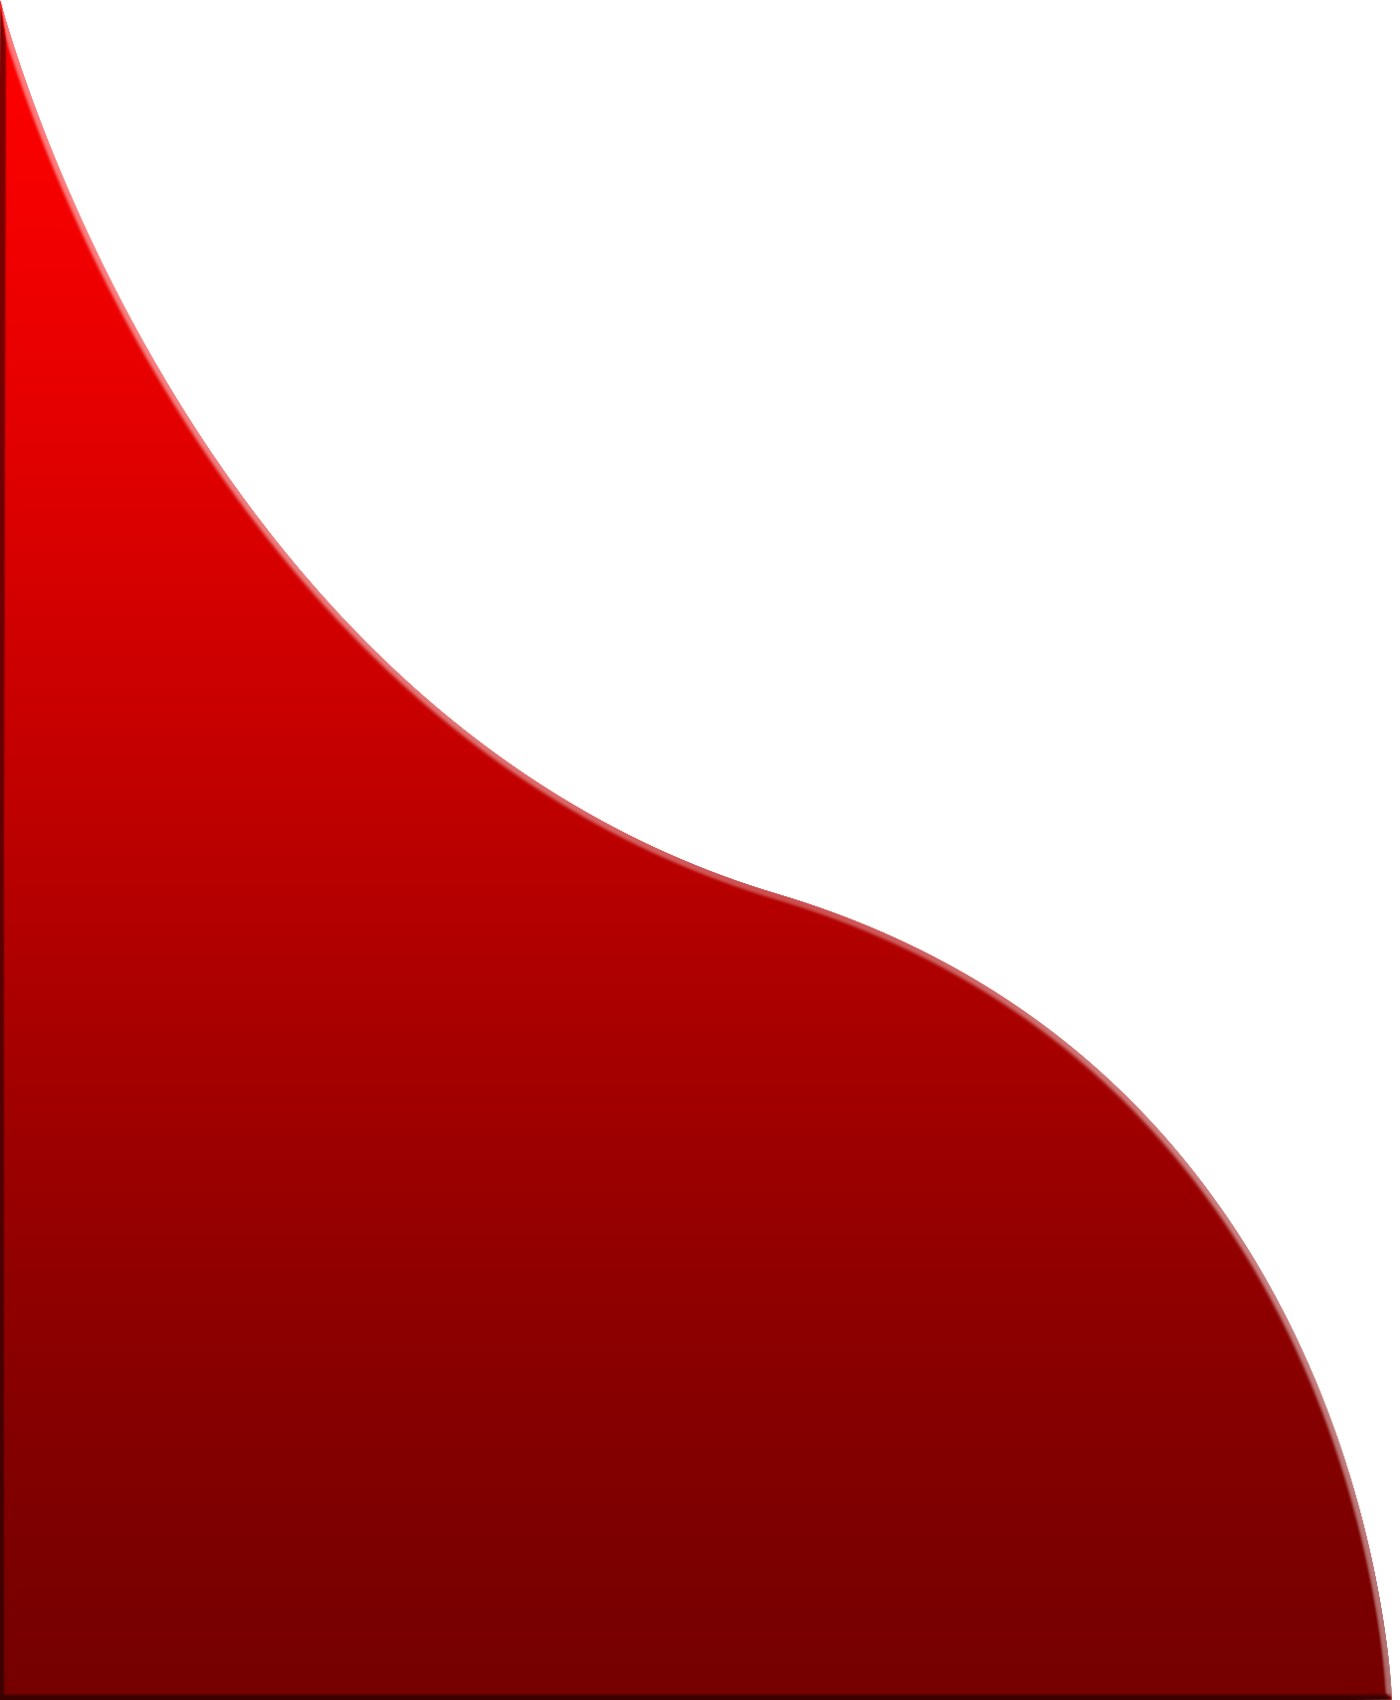
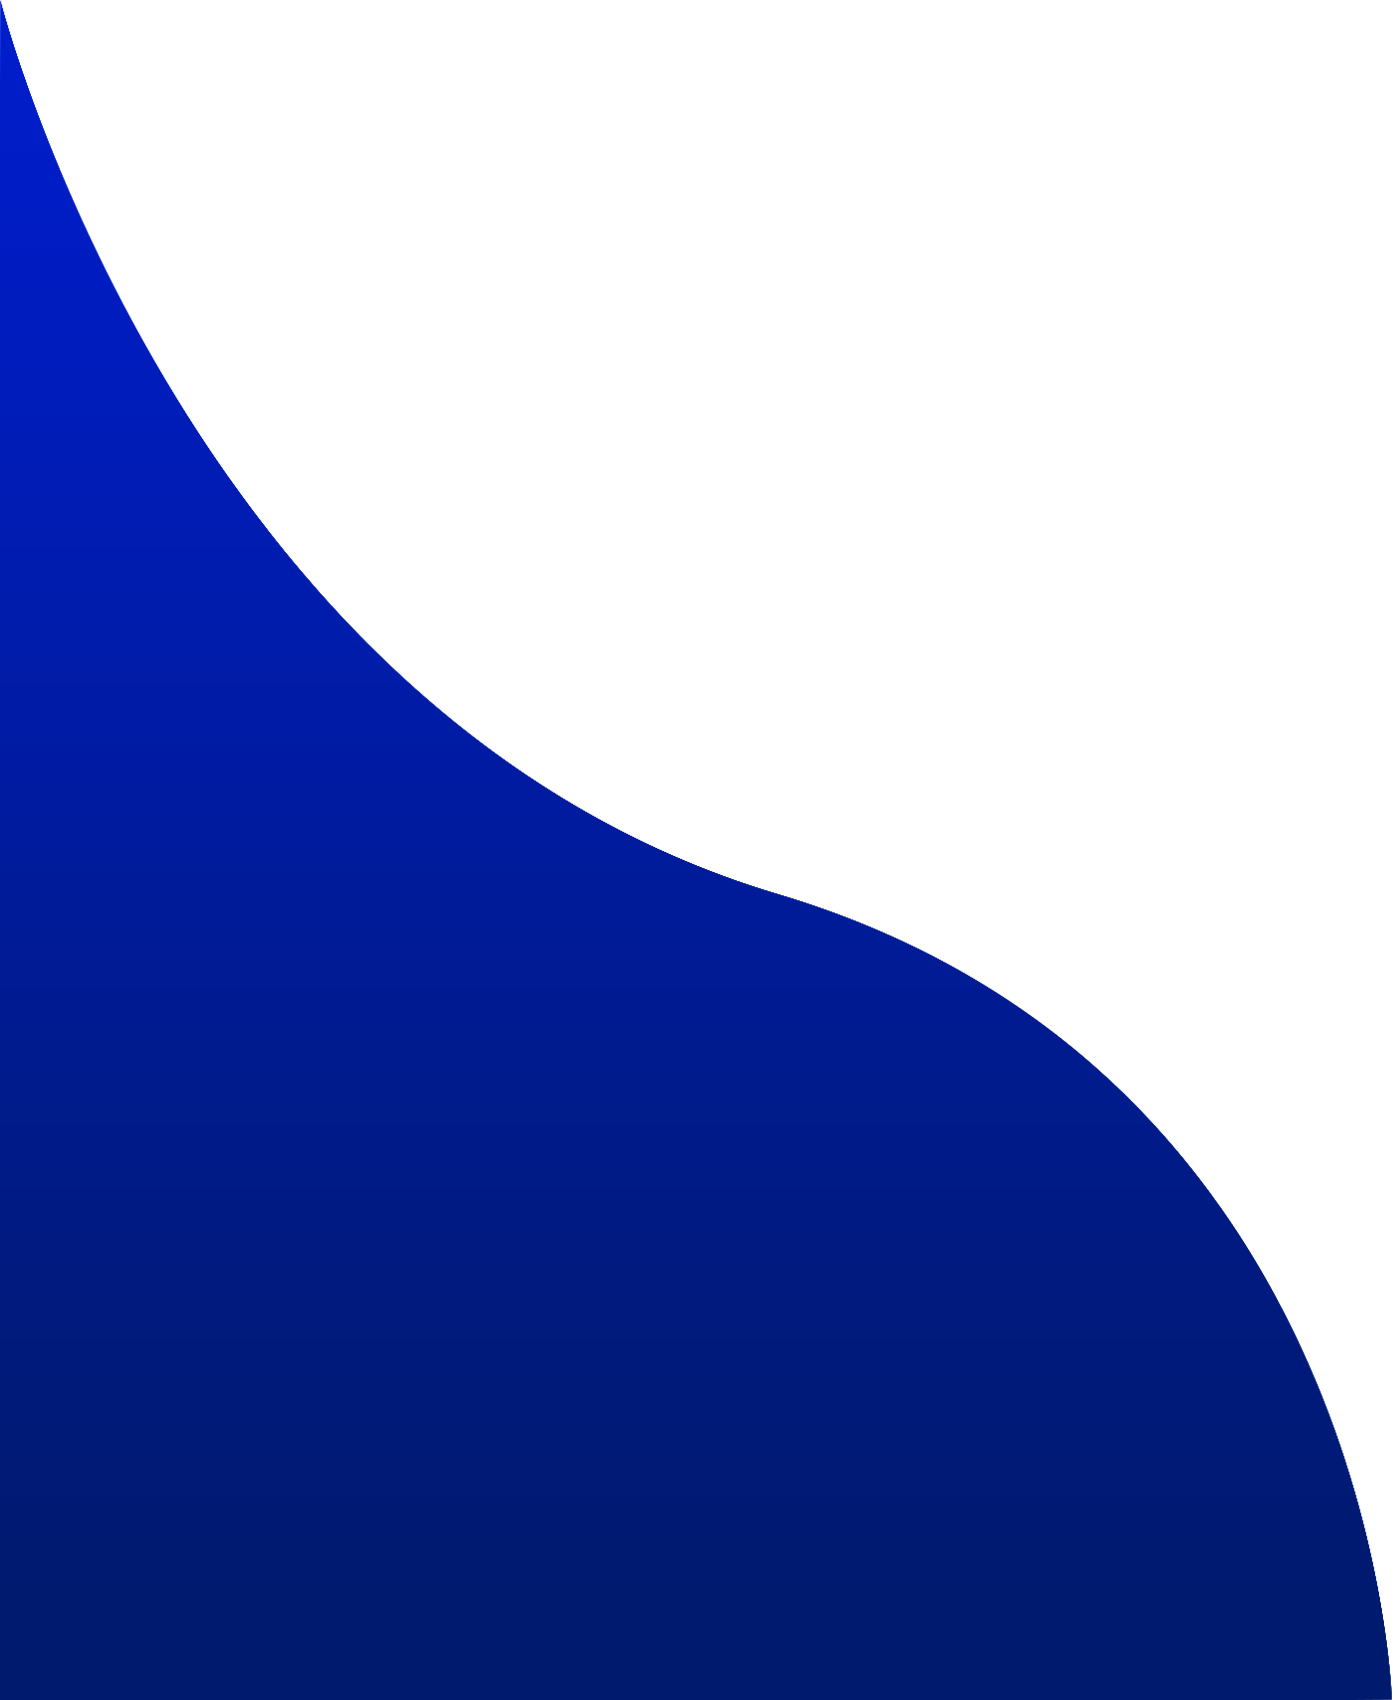
Fix Color and Import CSV,EXCEL

diff --git a/frontend/src/layouts/SidebarView.vue b/frontend/src/layouts/SidebarView.vue
@@ -1,6 +1,6 @@
 <template>
   <aside class="main-sidebar sidebar-dark-secondary elevation-4">
-    <router-link to="/dashboard" style=" text-decoration:none" class="brand-link bg-danger text-white">
+    <router-link to="/dashboard" style=" text-decoration:none" class="brand-link bg-gradient-blue text-white">
       <span class="brand-text font-weight-bold mr-5 ml-5">Admin LKPS</span></router-link>
     <div class="sidebar">
       <div class="user-panel mt-3 pb-3 mb-3 d-flex">
@@ -41,23 +41,6 @@
           </li>
           <li class="nav-item">
             <a href="#" class="nav-link">
-              <i class="nav-icon fas fa-tachometer-alt"></i>
-              <p>
-                CRUD Example
-                <i class="right fas fa-angle-left"></i>
-              </p>
-            </a>
-            <ul class="nav nav-treeview">
-              <li class="nav-item">
-                <router-link to="/home" class="nav-link">
-                  <i class="far fa-circle nav-icon"></i>
-                  <p>CRUD</p>
-                </router-link>
-              </li>
-            </ul>
-          </li>
-          <li class="nav-item">
-            <a href="#" class="nav-link">
               <i class="fas fa-users nav-icon"></i>
               <p>
                 Sumber Daya Manusia 
@@ -81,10 +64,27 @@
               </li>
             </ul>
           </li>
+          <li class="nav-item">
+            <a href="#" class="nav-link">
+              <i class="nav-icon fas fa-tachometer-alt"></i>
+              <p>
+                CRUD Example
+                <i class="right fas fa-angle-left"></i>
+              </p>
+            </a>
+            <ul class="nav nav-treeview">
+              <li class="nav-item">
+                <router-link to="/home" class="nav-link">
+                  <i class="far fa-circle nav-icon"></i>
+                  <p>CRUD</p>
+                </router-link>
+              </li>
+            </ul>
+          </li>
         </ul>
       </nav>
     </div>
-    <div class="card no-gutters no-border bg-danger">
+    <div class="card no-gutters no-border bg-blue">
       <button type="submit" @click="logout" class="btn text-white">
         <h5>Logout</h5>
       </button>

diff --git a/frontend/src/BimbinganTa/HomeBimbinganView.vue b/frontend/src/BimbinganTa/HomeBimbinganView.vue
@@ -32,7 +32,7 @@
                     <hr />
 
                     <div class="table-responsive mt-2">
-                      <table id="datatable" class="table table-hover table-bordered display">
+                      <table id="datatable" class="table table-hover table-bordered display" style="width: 100%;">
                         <thead>
                           <tr>
                             <th>TAHUN AKADEMIK</th>
@@ -91,7 +91,14 @@ import "jquery/dist/jquery.min.js";
 import "bootstrap/dist/css/bootstrap.min.css";
 import "datatables.net-dt/js/dataTables.dataTables";
 import "datatables.net-dt/css/jquery.dataTables.min.css";
+import "datatables.net-buttons/js/buttons.colVis.min";
+import "datatables.net-buttons/js/dataTables.buttons";
+import "datatables.net-buttons/js/buttons.flash.min";
+import "datatables.net-buttons/js/buttons.html5.min";
 import $ from "jquery";
+import "datatables.net";
+import jszip from "jszip";
+window.jszip = jszip;
 
 export default {
   
@@ -101,6 +108,10 @@ export default {
       console.log(response.data.data)
       setTimeout(() => {
         $("#datatable").DataTable({
+          dom:"Bftrip",
+          buttons:[
+              "excel","csv"
+          ],
           lengthMenu: [
             [5, 10, 25, 50, -1],
             [5, 10, 25, 50, "All"],

diff --git a/frontend/src/CRUD/HomeAdminView.vue b/frontend/src/CRUD/HomeAdminView.vue
@@ -80,6 +80,13 @@ import "jquery/dist/jquery.min.js";
 import "bootstrap/dist/css/bootstrap.min.css";
 import "datatables.net-dt/js/dataTables.dataTables";
 import "datatables.net-dt/css/jquery.dataTables.min.css";
+import "datatables.net-buttons/js/buttons.colVis.min";
+import "datatables.net-buttons/js/dataTables.buttons";
+import "datatables.net-buttons/js/buttons.flash.min";
+import "datatables.net-buttons/js/buttons.html5.min";
+import "datatables.net";
+import jszip from "jszip";
+window.jszip = jszip;
 import $ from "jquery";
 export default {
   mounted () {
@@ -114,6 +121,10 @@ export default {
         console.log(response.data.data)
       setTimeout(() => {
         $("#datatable").DataTable({
+          dom:"Bftrip",
+          buttons:[
+              "excel","csv"
+          ],
           lengthMenu: [
             [5, 10, 25, 50, -1],
             [5, 10, 25, 50, "All"],

diff --git a/frontend/src/Penelitian/HomePenelitianView.vue b/frontend/src/Penelitian/HomePenelitianView.vue
@@ -97,7 +97,14 @@ import "jquery/dist/jquery.min.js";
 import "bootstrap/dist/css/bootstrap.min.css";
 import "datatables.net-dt/js/dataTables.dataTables";
 import "datatables.net-dt/css/jquery.dataTables.min.css";
+import "datatables.net-buttons/js/buttons.colVis.min";
+import "datatables.net-buttons/js/dataTables.buttons";
+import "datatables.net-buttons/js/buttons.flash.min";
+import "datatables.net-buttons/js/buttons.html5.min";
 import $ from "jquery";
+import "datatables.net";
+import jszip from "jszip";
+window.jszip = jszip;
 
 export default {
   
@@ -107,6 +114,10 @@ export default {
       console.log(response.data.data)
       setTimeout(() => {
         $("#datatable").DataTable({
+          dom:"Bftrip",
+          buttons:[
+              "excel","csv"
+          ],
           lengthMenu: [
             [5, 10, 25, 50, -1],
             [5, 10, 25, 50, "All"],

diff --git a/frontend/src/CRUD/HomeView.vue b/frontend/src/CRUD/HomeView.vue
@@ -90,6 +90,13 @@ import "bootstrap/dist/css/bootstrap.min.css";
 import "datatables.net-dt/js/dataTables.dataTables";
 import "datatables.net-dt/css/jquery.dataTables.min.css";
 import $ from "jquery";
+import "datatables.net-buttons/js/buttons.colVis.min";
+import "datatables.net-buttons/js/dataTables.buttons";
+import "datatables.net-buttons/js/buttons.flash.min";
+import "datatables.net-buttons/js/buttons.html5.min";
+import "datatables.net";
+import jszip from "jszip";
+window.jszip = jszip;
 
 export default {
   
@@ -99,6 +106,10 @@ export default {
       console.log(response.data.data)
       setTimeout(() => {
         $("#datatable").DataTable({
+          dom:"Bftrip",
+          buttons:[
+              "excel","csv"
+          ],
           lengthMenu: [
             [5, 10, 25, 50, -1],
             [5, 10, 25, 50, "All"],

diff --git a/frontend/public/index.html b/frontend/public/index.html
@@ -1,6 +1,9 @@
 <!DOCTYPE html>
 <html lang="">
   <head>
+    <script type="text/javascript" src="https://cdn.datatables.net/buttons/1.3.1/js/dataTables.buttons.min.js"></script> 
+    <script type="text/javascript" src="https://cdnjs.cloudflare.com/ajax/libs/jszip/3.1.3/jszip.min.js"></script>
+    <script type="text/javascript" src="https://cdn.datatables.net/buttons/1.3.1/js/buttons.html5.min.js"></script>
     <link href="https://fonts.googleapis.com/css?family=Poppins:600&display=swap" rel="stylesheet">
 	<script src="https://kit.fontawesome.com/a81368914c.js"></script>
    <!-- Font Awesome -->

diff --git a/frontend/src/layouts/NavbarView.vue b/frontend/src/layouts/NavbarView.vue
@@ -1,5 +1,5 @@
 <template>
-    <nav class="main-header navbar navbar-expand navbar-white navbar-light bg-danger ">
+    <nav class="main-header navbar navbar-expand navbar-white navbar-light bg-gradient-blue ">
           <ul class="navbar-nav">
             <li class="nav-item">
               <a class="nav-link" data-widget="pushmenu" href="#" role="button"

diff --git a/frontend/src/main.js b/frontend/src/main.js
@@ -4,7 +4,8 @@ import router from "./router";
 import axios from "axios";
 import VueSweetalert2 from 'vue-sweetalert2';
 import 'sweetalert2/dist/sweetalert2.min.css';
-import vueTopprogress from 'vue-top-progress'
+import vueTopprogress from 'vue-top-progress';
+
 Vue.use(vueTopprogress)
 
 components:{

diff --git a/frontend/src/views/LoginView.vue b/frontend/src/views/LoginView.vue
@@ -269,7 +269,7 @@ a:hover{
 	border-radius: 25px;
 	outline: none;
 	border: none;
-	background-image: linear-gradient(to right, #b72b2b, #ff0c0c, #b00000);
+	background-image: linear-gradient(to right, #2b2db7, #0c24ff, #0017b0);
 	background-size: 200%;
 	font-size: 1.2rem;
 	color: #fff;

diff --git a/backend/app/Controllers/Penelitian.php b/backend/app/Controllers/Penelitian.php
@@ -143,7 +143,7 @@ class Penelitian extends ResourceController
                     'judul'     => $this->request->getPost('judul'),
                     'tahun'   => $this->request->getPost('tahun'),
                     'sumber_dana_pt_mandiri'   => $this->request->getPost('sumber_dana_pt_mandiri'),
-                    'dana_pt_mandiri'   => $this->request->getPost('content'),
+                    'dana_pt_mandiri'   => $this->request->getPost('dana_pt_mandiri'),
                     'sumber_dalam_negeri'   => $this->request->getPost('sumber_dalam_negeri'),
                     'dana_dalam_negeri'   => $this->request->getPost('dana_dalam_negeri'),
                     'sumber_luar_negeri'   => $this->request->getPost('sumber_luar_negeri'),

diff --git a/backend/app/Database/Migrations/2022-07-11-124453_TblPenelitian.php b/backend/app/Database/Migrations/2022-07-11-124453_TblPenelitian.php
@@ -29,8 +29,8 @@ class TblPenelitian extends Migration
 				'null'           => true,
 			],
 			'dana_pt_mandiri' => [
-				'type'           => 'VARCHAR',
-				'constraint'     => 100,
+				'type'           => 'TEXT',
+				'null'     		=> false,
 			],
 			'sumber_dalam_negeri' => [
 				'type'           => 'TEXT',
